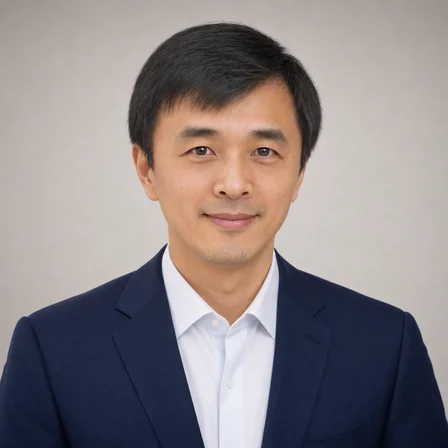
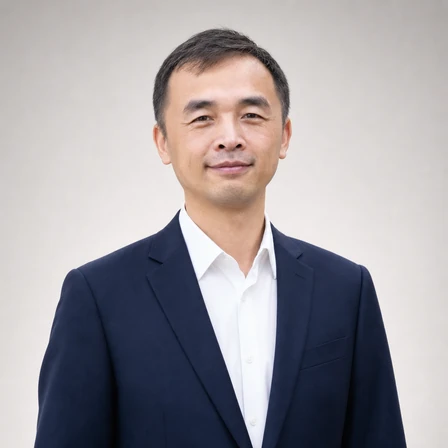
Update Minming Li headshot

diff --git a/organizing.html b/organizing.html
@@ -66,7 +66,7 @@
         </div>
         <div class="committee">
           <div class="committee-card">
-            <div class="committee-avatar"><img src="assets/people/minming-li-small.webp" alt="Minming Li" loading="lazy" decoding="async"></div>
+            <div class="committee-avatar"><img src="assets/people/minming-li-small.webp?v=20260625-1" alt="Minming Li" loading="lazy" decoding="async"></div>
             <div class="committee-copy"><span class="role">General Co-Chair</span><a class="name" href="https://www.cs.cityu.edu.hk/~minmli/">Minming Li</a><div class="affiliation">City University of Hong Kong</div></div>
           </div>
           <div class="committee-card">